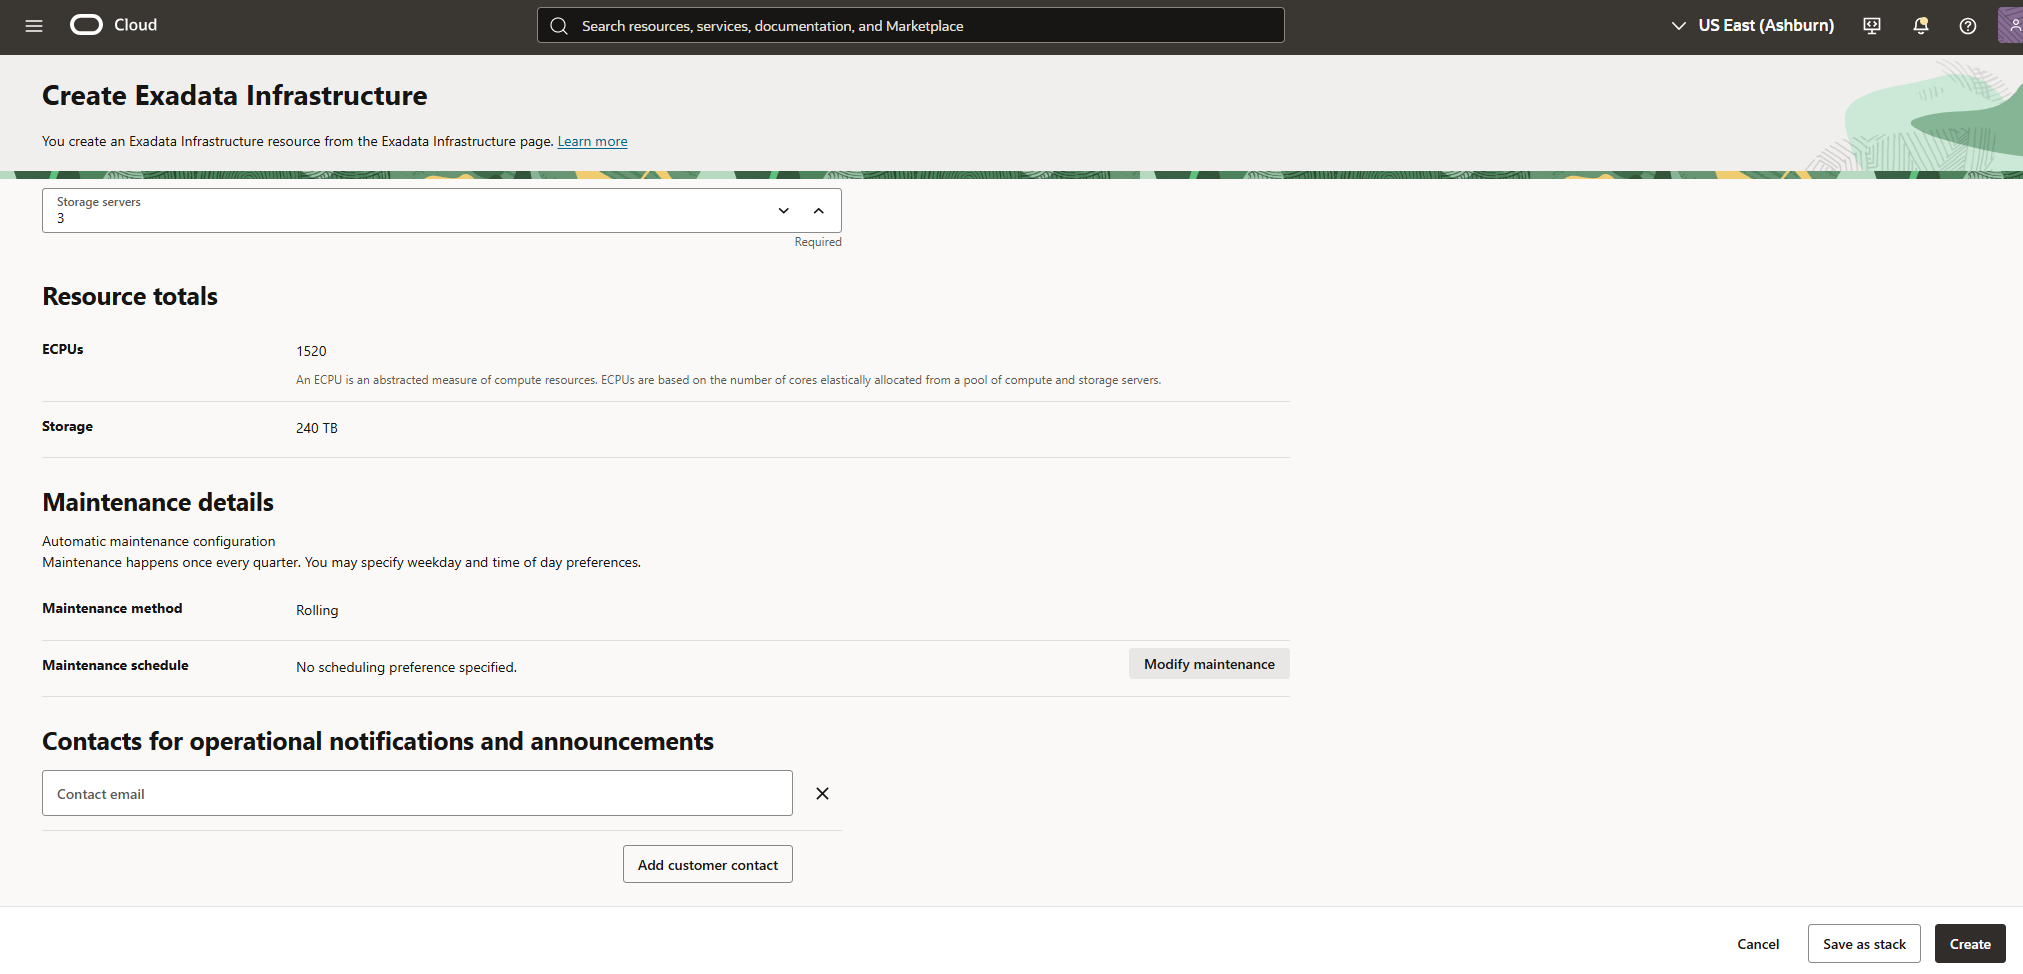
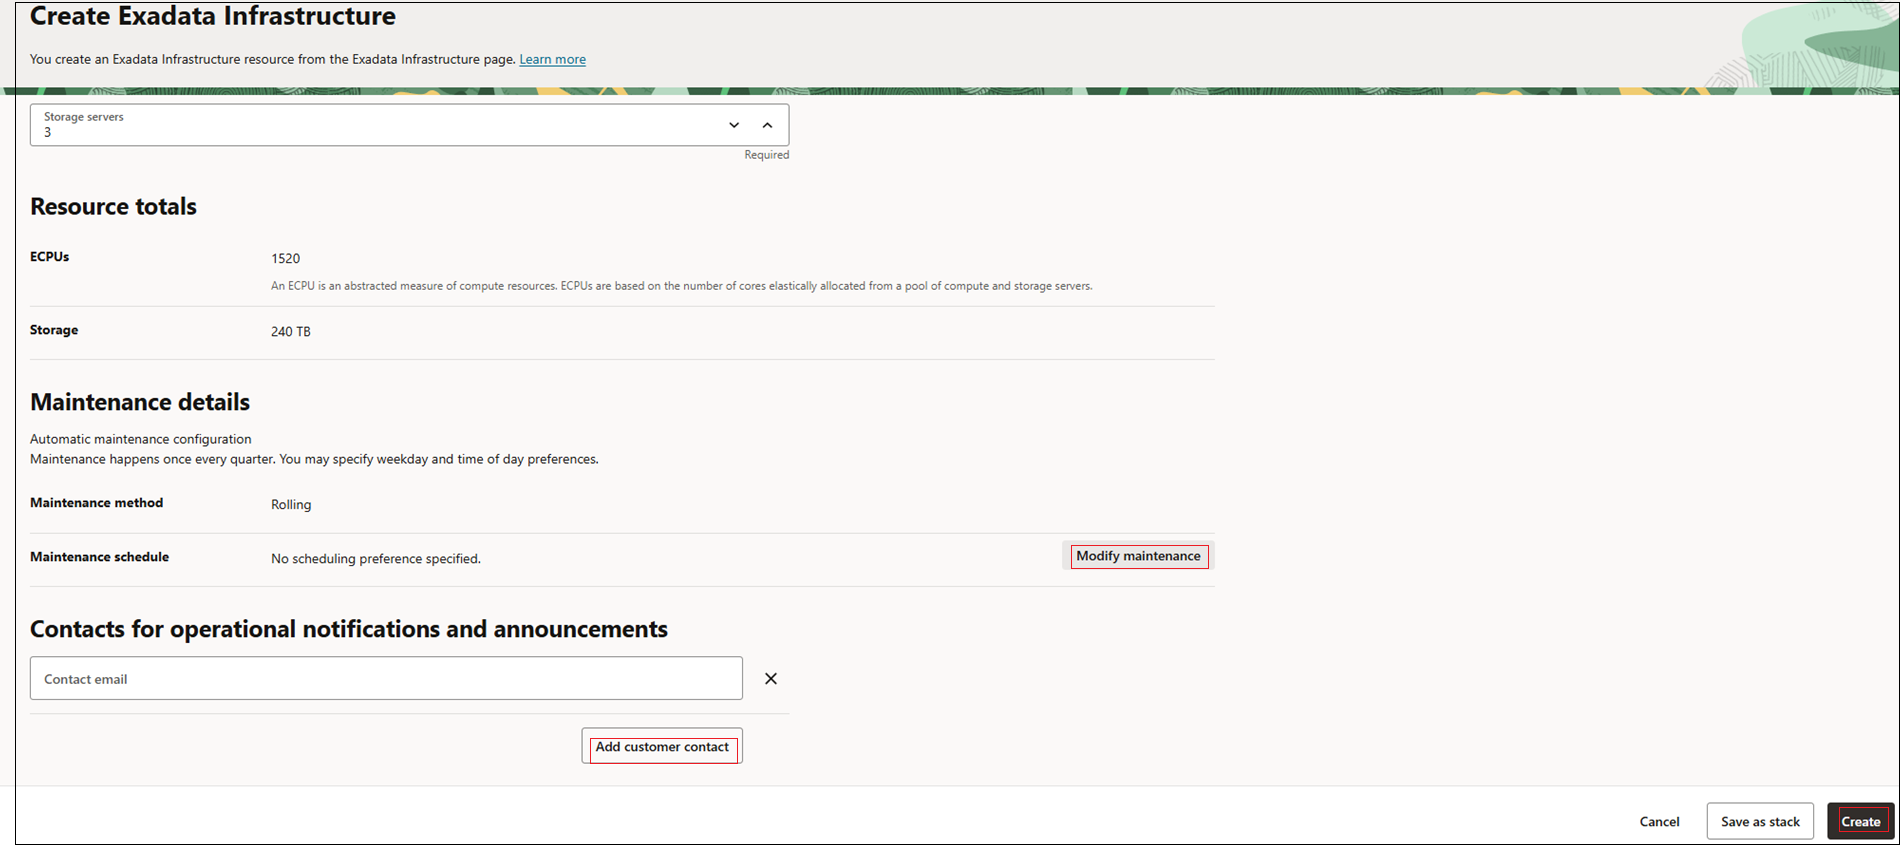
modified screenshots and content

diff --git a/adb-provisioning-exadata/adb-provisioning-exadata.md b/adb-provisioning-exadata/adb-provisioning-exadata.md
@@ -34,7 +34,7 @@ Your tenancy has limits on the maximum number of resources you're allowed to use
 - The list should show all the available resources, Exadata X11M Database Server Count and Exadata X11M Storage Server Count available or used in selected Availability Domain. 
 
     ![This image shows the result of performing the above step.](./images/limit2.png " ")
-    - To increase the Service in your teanancy, click on **Request a service limit increase** and fill in the details in **Request Service Limit Updates**.
+    - To increase the Service in your tenancy, click on **Request a service limit increase** and fill in the details in **Request Service Limit Updates**.
 
     ![This image shows the result of performing the above step.](./images/limit3.png " ")
     
@@ -44,17 +44,16 @@ Your tenancy has limits on the maximum number of resources you're allowed to use
 *Log in to your OCI account as a fleet administrator.*
 
 - Navigate to the **Oracle AI Database** option in the top left hamburger menu from your OCI home screen. Click **Autonomous AI Database on Dedicated Infrastructure**.
-
-  ![This image shows the result of performing the above step.](./images/create-cei1.png " ")
 - Select **Exadata Infrastructure** and ensure you pick the desired fleet compartment as shown above. Click **Create Exadata Infrastructure**.
 
+  ![This image shows the result of performing the above step.](./images/create-cei1.png " ")
 - Enter a user-friendly description or other information that helps you easily identify the resource as the name for the Exadata Infrastructure and select the Availability Domain in which you want the CEI to be created. Choose the type of Oracle Exadata Database Machine you want to allocate to this resource.
 
  ![This image shows the result of performing the above step.](./images/create-cei2.png " ")
 - Specify the number of database and storage servers for configuring your Exadata Infrastructure resource. The default configuration is 2 database servers and 3 storage servers. However, you have the flexibility to choose a different value for database servers and storage servers within a valid range. The acceptable range of values is 2 to 32 for database servers and 3 to 64 for storage servers. 
 
  ![This image shows the result of performing the above step.](./images/create-cei3.png " ")
-- Optionally, you can configure the automatic maintenance schedule by clicking **Edit maintenance preferences**.
+- Optionally, you can configure the automatic maintenance schedule by clicking **Modify maintenance**.
 
 ![This image shows the result of performing the above step.](./images/create-cei3a.png " ")
 - You can then change the maintenance schedule by specifying quarter, week, day and time you would like to schedule automatic maintenance for your exadata hardware.
